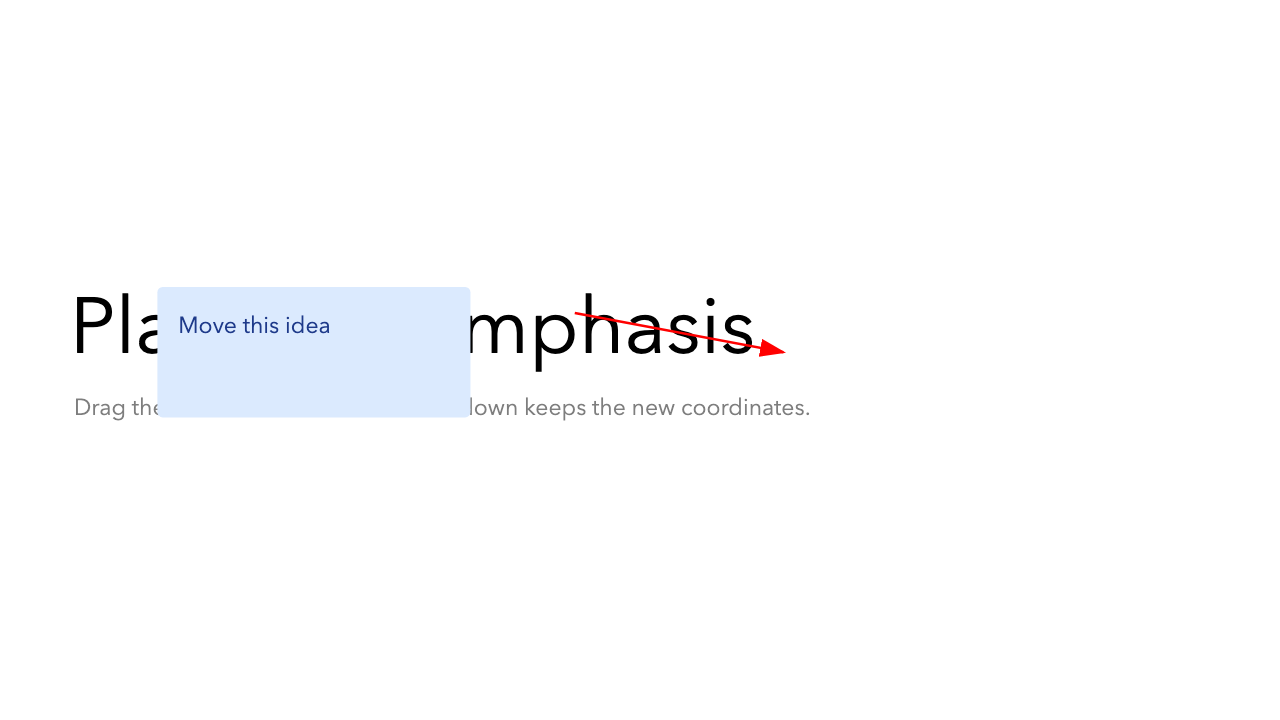
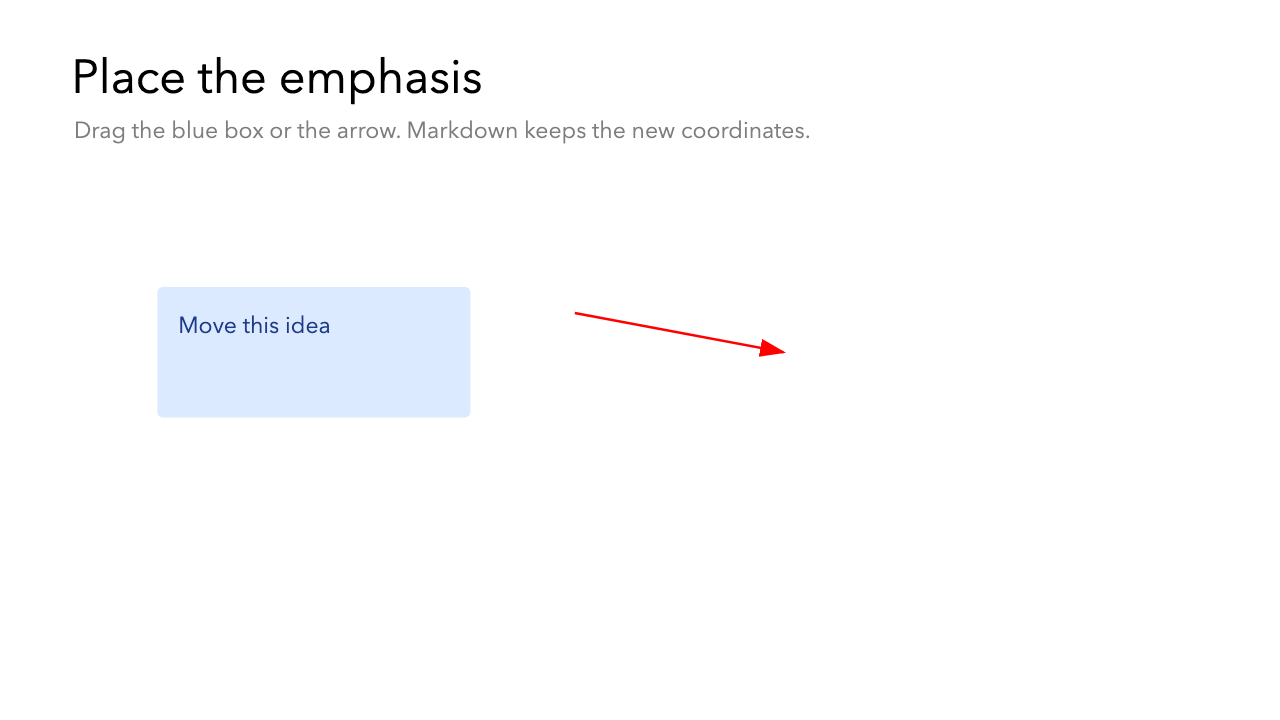
fix(online): settle motion captures and clear the drag example title

diff --git a/online/src/examples.js b/online/src/examples.js
@@ -75,7 +75,7 @@ export const examples = [
     ],
     "cover": "gallery/drag.png",
     "document": {
-      "src": "---\ntheme: default\ntitle: \"Position elements\"\ninfo: \"Move a box or arrow and keep its position in Markdown.\"\nonlineTags: [\"drag\", \"layouts\"]\nlayout: cover\ntransition: none\n---\n\n# Place the emphasis\n\nDrag the blue box or the arrow. Markdown keeps the new coordinates.\n\n<VDrag pos=\"120,220,240,100\" class=\"bg-blue-100 text-blue-900 p-4 rounded\">Move this idea</VDrag>\n\n<VDragArrow pos=\"440,240,160,30\" color=\"red\" />\n",
+      "src": "---\ntheme: default\ntitle: \"Position elements\"\ninfo: \"Move a box or arrow and keep its position in Markdown.\"\nonlineTags: [\"drag\", \"layouts\"]\nlayout: default\ntransition: none\n---\n\n# Place the emphasis\n\nDrag the blue box or the arrow. Markdown keeps the new coordinates.\n\n<VDrag pos=\"120,220,240,100\" class=\"bg-blue-100 text-blue-900 p-4 rounded\">Move this idea</VDrag>\n\n<VDragArrow pos=\"440,240,160,30\" color=\"red\" />\n",
       "slidev": {
         "css": ""
       }

diff --git a/online/examples/drag.md b/online/examples/drag.md
@@ -3,7 +3,7 @@ theme: default
 title: "Position elements"
 info: "Move a box or arrow and keep its position in Markdown."
 onlineTags: ["drag", "layouts"]
-layout: cover
+layout: default
 transition: none
 ---
 
